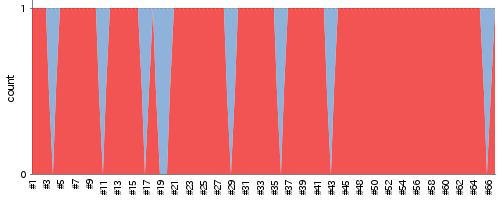
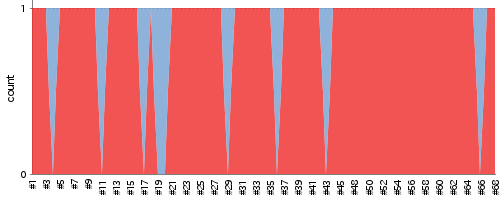
update report

diff --git a/index.md b/index.md
@@ -2,7 +2,7 @@
 layout: default
 ---
 # Jenkins CI report For HRG
-## Build and test report (2015/07/06 10:59:56)
+## Build and test report (2015/07/06 11:28:31)
 ### Build Status
 ___
 ![Build Status](http://jenkinshrg.github.io/images/badge.svg)
@@ -37,6 +37,7 @@ UNSTABLE
   
 |Status|Time|Duration|Changes|Build|Test|Note|
 |---|---|---|---|---|---|---|
+|![Jenkins Icon](http://jenkinshrg.github.io/images/24x24/yellow.png)UNSTABLE|2015/07/06 11:00|28 min.||[BUILD](https://drive.google.com/file/d/0B54sHwaxmuM4QkZabDNkWGVtZXM/view?usp=drivesdk) |[CONSOLE](https://drive.google.com/file/d/0B54sHwaxmuM4bmY2MFg5WlItTE0/view?usp=drivesdk) [IMAGE](https://drive.google.com/file/d/0B54sHwaxmuM4UVh3ZmstZWFsMnc/edit?usp=drivesdk) [VIDEO](https://drive.google.com/file/d/0B54sHwaxmuM4MkxwLXJrQTJjcGc/edit?usp=drivesdk) |STOP NORMAL|
 |![Jenkins Icon](http://jenkinshrg.github.io/images/24x24/yellow.png)UNSTABLE|2015/07/06 10:31|28 min.||[BUILD](https://drive.google.com/file/d/0B54sHwaxmuM4SHlQRVZ1N3kxZXc/view?usp=drivesdk) |[CONSOLE](https://drive.google.com/file/d/0B54sHwaxmuM4NXVtb2VtRmhhNjg/view?usp=drivesdk) [IMAGE](https://drive.google.com/file/d/0B54sHwaxmuM4WERMOXRQMEp6bjQ/edit?usp=drivesdk) [VIDEO](https://drive.google.com/file/d/0B54sHwaxmuM4ZVpMM0RBNUJhcEk/edit?usp=drivesdk) |STOP RED|
 |![Jenkins Icon](http://jenkinshrg.github.io/images/24x24/blue.png)SUCCESS|2015/07/06 10:00|28 min.|[CHANGES](https://drive.google.com/file/d/0B54sHwaxmuM4SXJPdTFpY294SDg/view?usp=drivesdk) |[BUILD](https://drive.google.com/file/d/0B54sHwaxmuM4T0FfSFU3RXBtLXM/view?usp=drivesdk) |[CONSOLE](https://drive.google.com/file/d/0B54sHwaxmuM4bFFIZDk0bEVoOXM/view?usp=drivesdk) [IMAGE](https://drive.google.com/file/d/0B54sHwaxmuM4bW1qNnZZTmczMFE/edit?usp=drivesdk) [VIDEO](https://drive.google.com/file/d/0B54sHwaxmuM4M3pZZTBIN21ZV1k/edit?usp=drivesdk) | |
 |![Jenkins Icon](http://jenkinshrg.github.io/images/24x24/yellow.png)UNSTABLE|2015/07/06 09:00|28 min.||[BUILD](https://drive.google.com/file/d/0B54sHwaxmuM4cUppUGVmNS1NaHM/view?usp=drivesdk) |[CONSOLE](https://drive.google.com/file/d/0B54sHwaxmuM4UjlPQU5zR0VUYXc/view?usp=drivesdk) [IMAGE](https://drive.google.com/file/d/0B54sHwaxmuM4ZmdlMTFQb3E5WEE/edit?usp=drivesdk) [VIDEO](https://drive.google.com/file/d/0B54sHwaxmuM4ZGlCMWZCYlJuNG8/edit?usp=drivesdk) |STOP RED|
